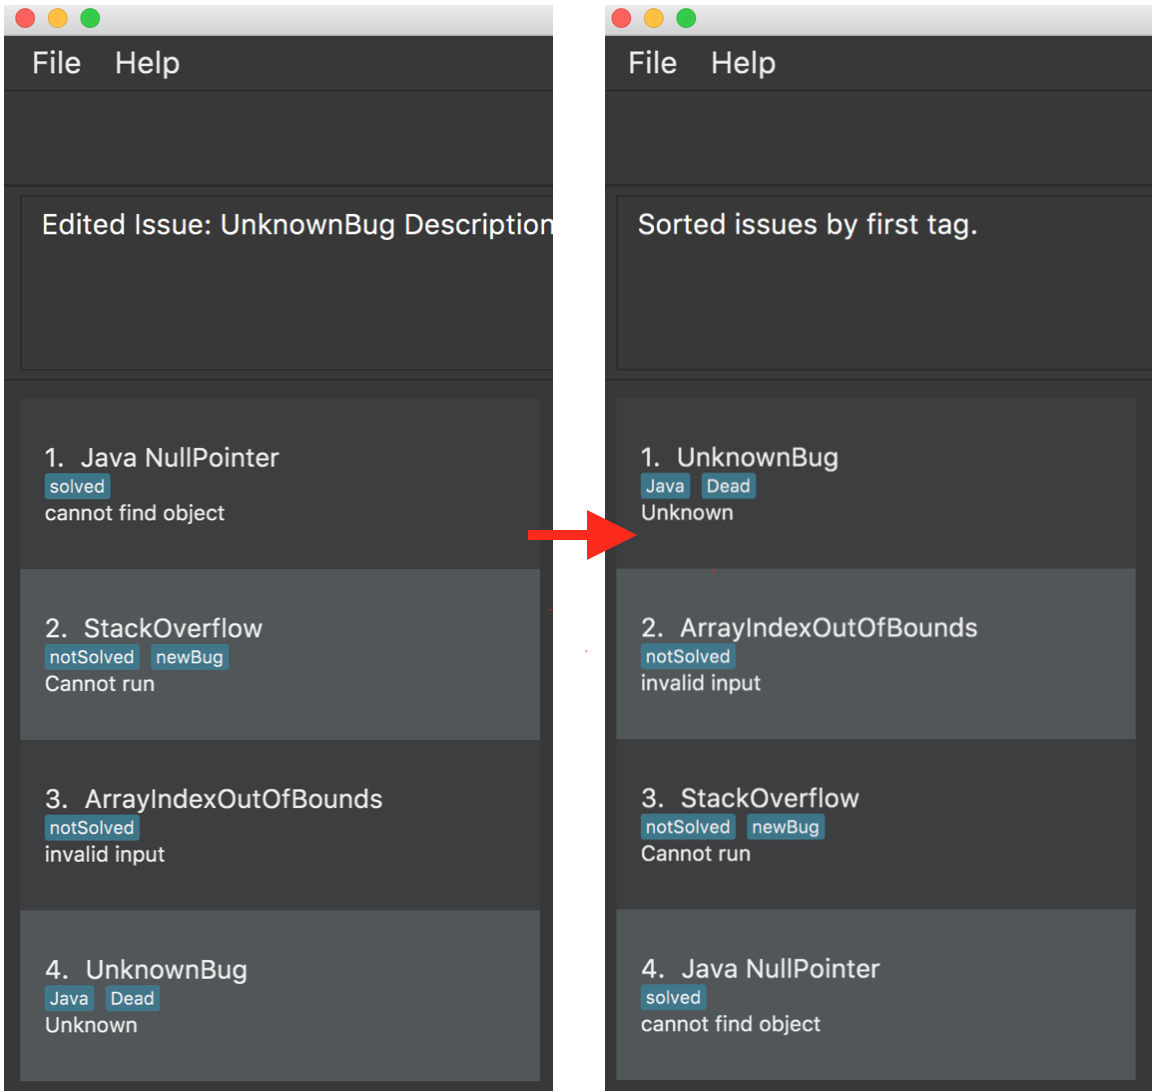
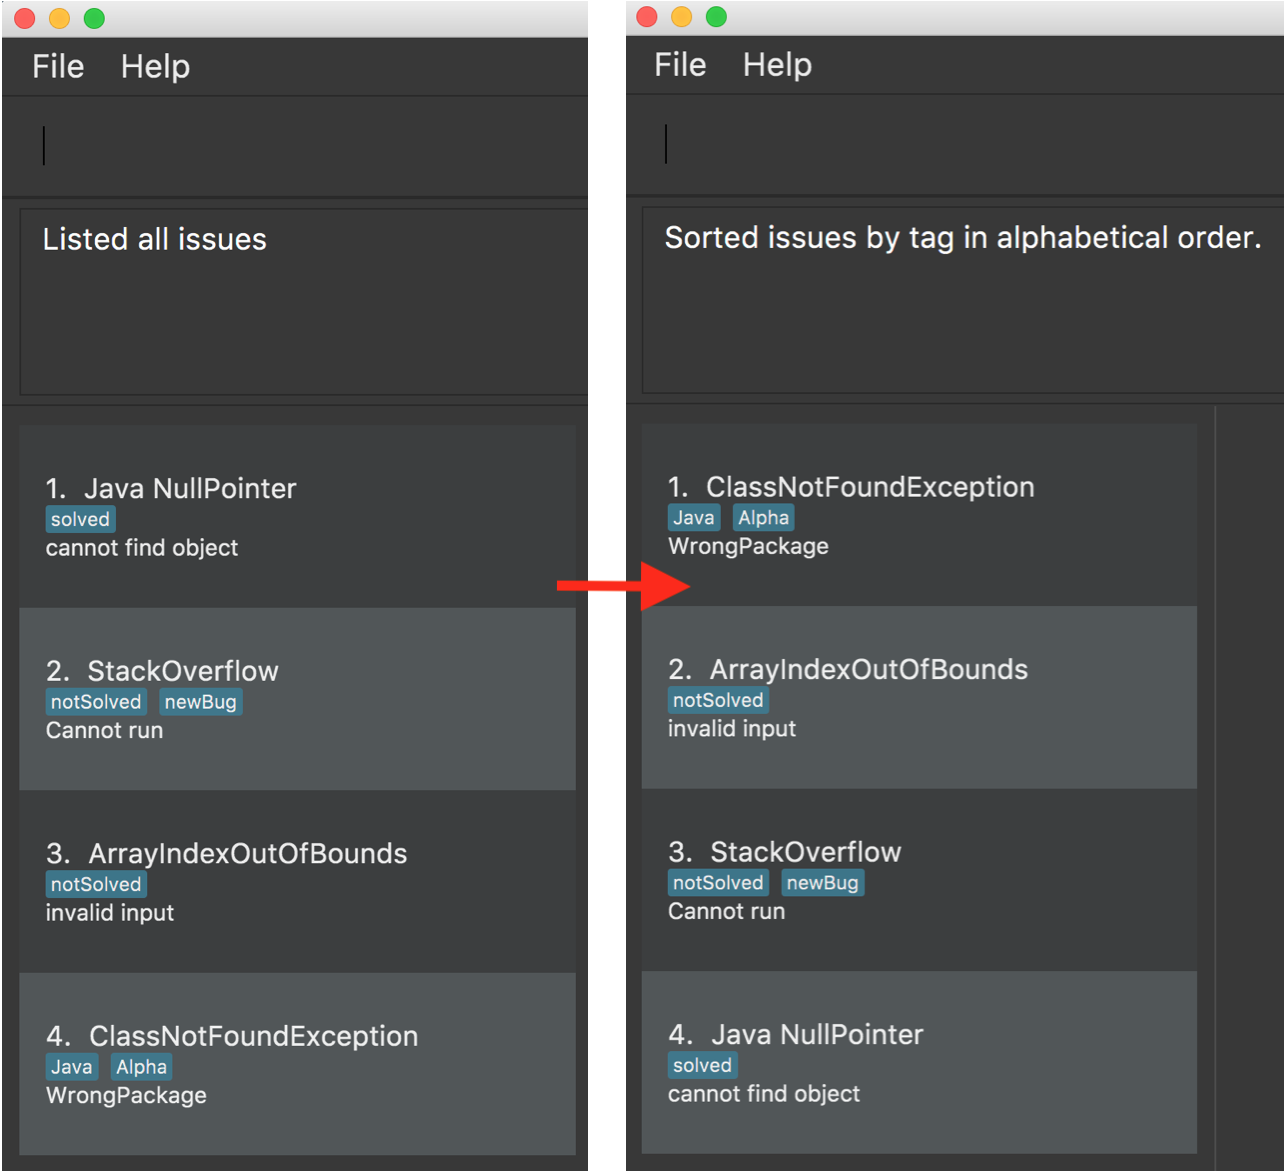
update UGDG

diff --git a/src/main/java/seedu/saveit/model/issue/IssueSort.java b/src/main/java/seedu/saveit/model/issue/IssueSort.java
@@ -13,9 +13,9 @@ public class IssueSort {
     public static final String TAG_SORT = "tag";
     public static final String EMPTY_SORT = "";
     private static final String FREQUENCY = "search frequency";
-    private static final String CHRONOLOGICAL = "chronological order";
-    private static final String TAG = "first tag";
-    private static final String DEFAULT = "adding order";
+    private static final String CHRONOLOGICAL = "last modified time";
+    private static final String TAG = "tag in alphabetical order";
+    private static final String DEFAULT = "added time";
     private final Comparator<Issue> comparator;
     private final String sortType;
 
